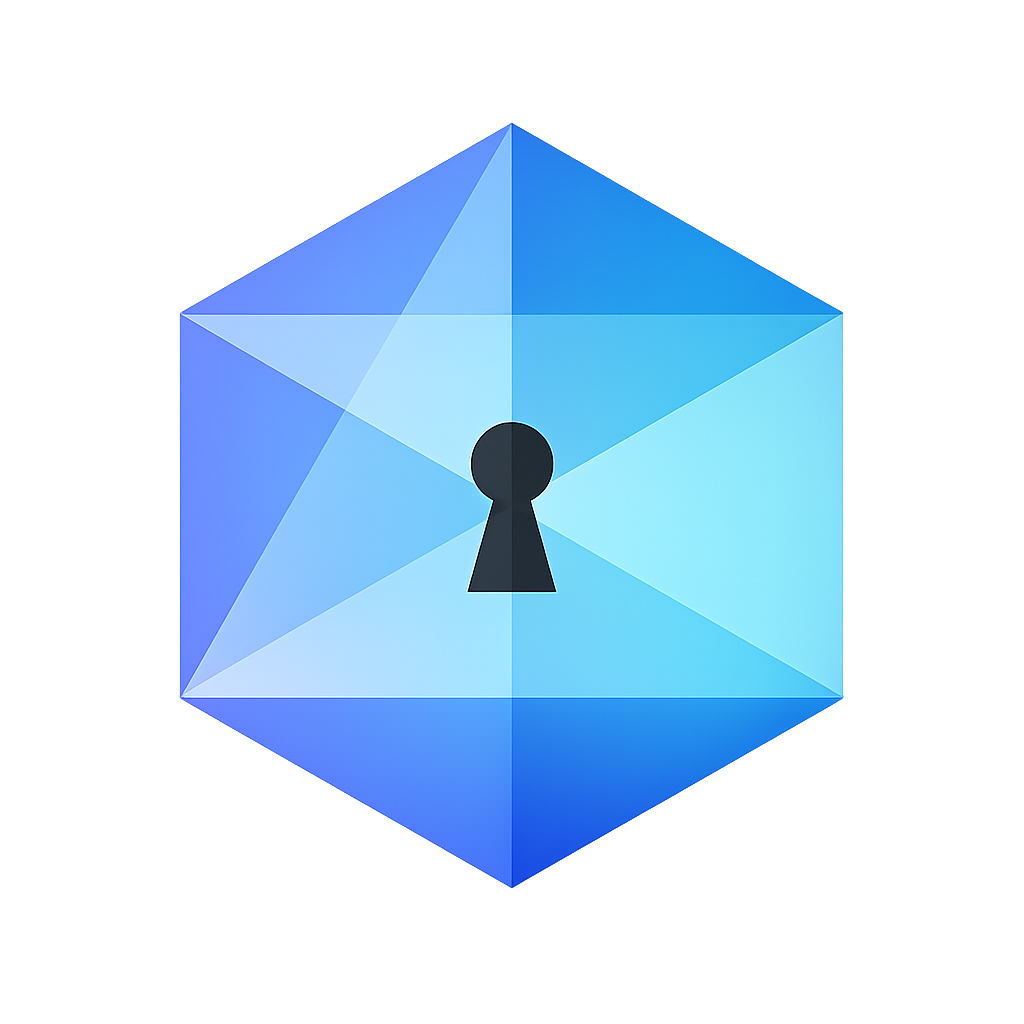
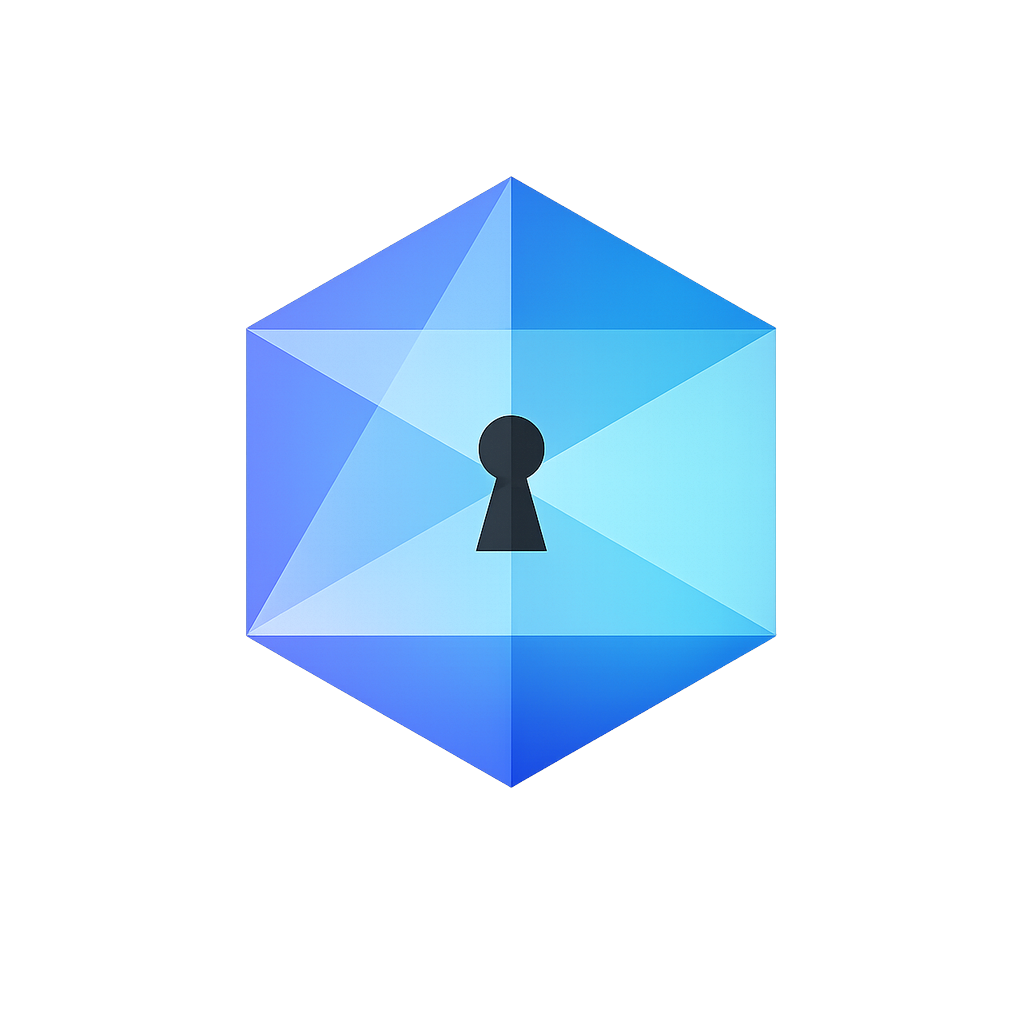
correcoes

Changed region(s): [[0.1562, 0.125, 0.8438, 0.875]]

diff --git a/lib/features/alerts/presentation/pages/dashboard_page.dart b/lib/features/alerts/presentation/pages/dashboard_page.dart
@@ -409,66 +409,82 @@ class _PrimaryMetricsPanel extends StatelessWidget {
           ),
         ),
         const SizedBox(height: 12),
-        Wrap(
-          spacing: 10,
-          runSpacing: 10,
+        Column(
           children: [
-            SizedBox(
-              width: _cardWidth(context),
-              child: _MetricCard(
-                title: 'Mês',
-                primary: hideValues
-                    ? '••••'
-                    : _formatPercent(dashboard.returns.month.percent, withSignal: true),
-                secondary:
-                    hideValues ? '••••' : _formatCurrency(dashboard.returns.month.value),
-                benchmark: hideValues
-                    ? '$benchmarkLabel: ••••'
-                    : '$benchmarkLabel: ${_formatPercent(dashboard.returns.month.benchmark, withSignal: true)}',
-                accent: _performanceColor(dashboard.returns.month.percent),
-                benchmarkColor: _performanceColor(dashboard.returns.month.benchmark),
+            IntrinsicHeight(
+              child: Row(
+                crossAxisAlignment: CrossAxisAlignment.stretch,
+                children: [
+                  Expanded(
+                    child: _MetricCard(
+                      title: 'Mês',
+                      primary: hideValues
+                          ? '••••'
+                          : _formatPercent(dashboard.returns.month.percent, withSignal: true),
+                      secondary: hideValues
+                          ? '••••'
+                          : _formatCurrency(dashboard.returns.month.value),
+                      benchmark: hideValues
+                          ? '$benchmarkLabel: ••••'
+                          : '$benchmarkLabel: ${_formatPercent(dashboard.returns.month.benchmark, withSignal: true)}',
+                      accent: _performanceColor(dashboard.returns.month.percent),
+                      benchmarkColor: _performanceColor(dashboard.returns.month.benchmark),
+                    ),
+                  ),
+                  const SizedBox(width: 10),
+                  Expanded(
+                    child: _MetricCard(
+                      title: yearLabel,
+                      primary: hideValues
+                          ? '••••'
+                          : _formatPercent(dashboard.returns.ytd.percent, withSignal: true),
+                      secondary: hideValues
+                          ? '••••'
+                          : _formatCurrency(dashboard.returns.ytd.value),
+                      benchmark: hideValues
+                          ? '$benchmarkLabel: ••••'
+                          : '$benchmarkLabel: ${_formatPercent(dashboard.returns.ytd.benchmark, withSignal: true)}',
+                      accent: _performanceColor(dashboard.returns.ytd.percent),
+                      benchmarkColor: _performanceColor(dashboard.returns.ytd.benchmark),
+                    ),
+                  ),
+                ],
               ),
             ),
-            SizedBox(
-              width: _cardWidth(context),
-              child: _MetricCard(
-                title: yearLabel,
-                primary: hideValues
-                    ? '••••'
-                    : _formatPercent(dashboard.returns.ytd.percent, withSignal: true),
-                secondary: hideValues ? '••••' : _formatCurrency(dashboard.returns.ytd.value),
-                benchmark: hideValues
-                    ? '$benchmarkLabel: ••••'
-                    : '$benchmarkLabel: ${_formatPercent(dashboard.returns.ytd.benchmark, withSignal: true)}',
-                accent: _performanceColor(dashboard.returns.ytd.percent),
-                benchmarkColor: _performanceColor(dashboard.returns.ytd.benchmark),
-              ),
-            ),
-            SizedBox(
-              width: _cardWidth(context),
-              child: _MetricCard(
-                title: '12 Meses',
-                primary: hideValues
-                    ? '••••'
-                    : _formatPercent(dashboard.returns.twelveMonths.percent, withSignal: true),
-                secondary: hideValues
-                    ? '••••'
-                    : _formatTwelveMonthsValue(dashboard.returns.twelveMonths),
-                benchmark: hideValues
-                    ? '$benchmarkLabel: ••••'
-                    : '$benchmarkLabel: ${_formatPercent(dashboard.returns.twelveMonths.benchmark, withSignal: true)}',
-                accent: _performanceColor(dashboard.returns.twelveMonths.percent),
-                benchmarkColor: _performanceColor(dashboard.returns.twelveMonths.benchmark),
-              ),
-            ),
-            SizedBox(
-              width: _cardWidth(context),
-              child: _MetricCard(
-                title: 'Volatilidade (90 dias)',
-                primary: hideValues ? '••••' : _formatPercent(dashboard.volatility90Days),
-                secondary: null,
-                benchmark: null,
-                accent: const Color(0xFF006E6D),
+            const SizedBox(height: 10),
+            IntrinsicHeight(
+              child: Row(
+                crossAxisAlignment: CrossAxisAlignment.stretch,
+                children: [
+                  Expanded(
+                    child: _MetricCard(
+                      title: '12 Meses',
+                      primary: hideValues
+                          ? '••••'
+                          : _formatPercent(dashboard.returns.twelveMonths.percent, withSignal: true),
+                      secondary: hideValues
+                          ? '••••'
+                          : _formatTwelveMonthsValue(dashboard.returns.twelveMonths),
+                      benchmark: hideValues
+                          ? '$benchmarkLabel: ••••'
+                          : '$benchmarkLabel: ${_formatPercent(dashboard.returns.twelveMonths.benchmark, withSignal: true)}',
+                      accent: _performanceColor(dashboard.returns.twelveMonths.percent),
+                      benchmarkColor: _performanceColor(dashboard.returns.twelveMonths.benchmark),
+                    ),
+                  ),
+                  const SizedBox(width: 10),
+                  Expanded(
+                    child: _MetricCard(
+                      title: 'Volatilidade (90 dias)',
+                      primary: hideValues
+                          ? '••••'
+                          : _formatPercent(dashboard.volatility90Days),
+                      secondary: null,
+                      benchmark: null,
+                      accent: const Color(0xFF006E6D),
+                    ),
+                  ),
+                ],
               ),
             ),
           ],
@@ -478,10 +494,6 @@ class _PrimaryMetricsPanel extends StatelessWidget {
   }
 }
 
-double _cardWidth(BuildContext context) {
-  final width = MediaQuery.of(context).size.width - 32;
-  return width >= 740 ? (width - 20) / 3 : (width - 10) / 2;
-}
 
 class _MetricCard extends StatelessWidget {
   const _MetricCard({
@@ -964,6 +976,7 @@ class AssetClassOverviewPage extends StatelessWidget {
         .where((item) => !_isHiddenClassName(item.name, percent: item.percent))
         .toList();
     return Scaffold(
+      backgroundColor: const Color(0xFFF3F5F8),
       appBar: AppBar(
         title: const Text(
           'Abertura da Classe de Ativos',